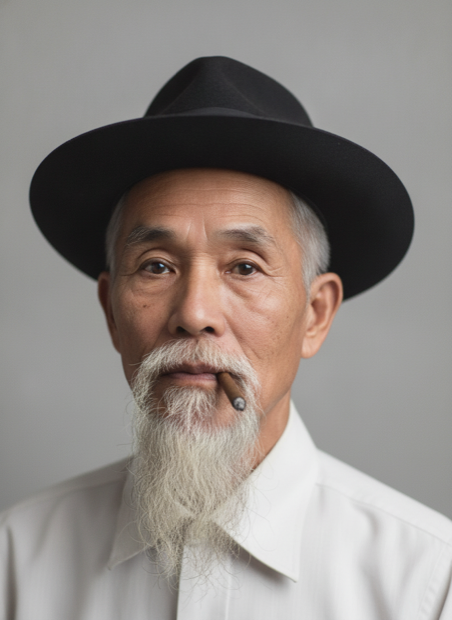
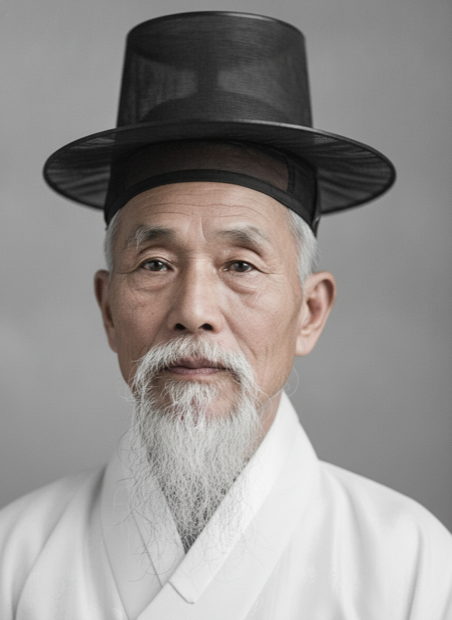
상세 페이지 원본 사진 모음(1차) + 이수정·서경조 재복원 + 앨범 5열
- 갤러리: Commons 카테고리(본인 검증)에서 PD/CC 사진 수집 → 상세 페이지 '원본 사진 모음'
  섹션(설명·출처 링크). 1차 5명 21장. scripts/gallery-fetch.ts.
- 이수정 컬러: 정돈된 -bw를 입력으로 재생성(치우침 해소). srcFor가 -bw 우선.
- 서경조: 담배·현대 의복 환각 제거(프롬프트 강화 '원본에 없는 물건/현대복 금지'+힌트).
- 인명사전 앨범 한 줄 5명.

diff --git a/lib/data/gallery.ts b/lib/data/gallery.ts
@@ -1,0 +1,144 @@
+// 인물별 '원본 사진 모음' — scripts/gallery-fetch.ts 로 Wikimedia Commons 카테고리에서 수집(PD/CC).
+// 카테고리 소속 = 본인 확인. 표시 후 사람이 검수하여 오귀속·중복을 정리한다.
+export type GalleryPhoto = { src: string; caption: string; source: string; sourceUrl?: string };
+
+export const GALLERY: Record<string, GalleryPhoto[]> = {
+  "underwood": [
+    {
+      "src": "https://upload.wikimedia.org/wikipedia/commons/c/c0/Horace_Grant_Underwood.jpg",
+      "caption": "Horace Grant Underwood",
+      "source": "Wikimedia Commons · Public domain",
+      "sourceUrl": "https://commons.wikimedia.org/wiki/File:Horace_Grant_Underwood.jpg"
+    },
+    {
+      "src": "https://upload.wikimedia.org/wikipedia/commons/9/9b/Horace_Grant_Underwood_in_1916.jpg",
+      "caption": "Horace Grant Underwood in 1916",
+      "source": "Wikimedia Commons · Public domain",
+      "sourceUrl": "https://commons.wikimedia.org/wiki/File:Horace_Grant_Underwood_in_1916.jpg"
+    },
+    {
+      "src": "https://upload.wikimedia.org/wikipedia/commons/2/29/Horace_Grant_Underwood_in_Korean_costume.jpg",
+      "caption": "Horace Grant Underwood in Korean costume",
+      "source": "Wikimedia Commons · Public domain",
+      "sourceUrl": "https://commons.wikimedia.org/wiki/File:Horace_Grant_Underwood_in_Korean_costume.jpg"
+    },
+    {
+      "src": "https://upload.wikimedia.org/wikipedia/commons/5/5d/Horace_G._Underwood_with_his_wife.jpg",
+      "caption": "Horace G. Underwood with his wife",
+      "source": "Wikimedia Commons · Public domain",
+      "sourceUrl": "https://commons.wikimedia.org/wiki/File:Horace_G._Underwood_with_his_wife.jpg"
+    },
+    {
+      "src": "https://upload.wikimedia.org/wikipedia/commons/thumb/5/5d/Underwood15.jpg/960px-Underwood15.jpg",
+      "caption": "Horace Grant Underwood at Fifteen",
+      "source": "Wikimedia Commons · Public domain",
+      "sourceUrl": "https://commons.wikimedia.org/wiki/File:Underwood15.jpg"
+    },
+    {
+      "src": "https://upload.wikimedia.org/wikipedia/commons/thumb/b/b3/Underwood24.jpg/960px-Underwood24.jpg",
+      "caption": "Horace Grant Underwood at Twenty-four",
+      "source": "Wikimedia Commons · Public domain",
+      "sourceUrl": "https://commons.wikimedia.org/wiki/File:Underwood24.jpg"
+    },
+    {
+      "src": "https://upload.wikimedia.org/wikipedia/commons/thumb/a/a4/Underwood1884.jpg/960px-Underwood1884.jpg",
+      "caption": "Horace Grant Underwood in 1884",
+      "source": "Wikimedia Commons · Public domain",
+      "sourceUrl": "https://commons.wikimedia.org/wiki/File:Underwood1884.jpg"
+    }
+  ],
+  "allen": [
+    {
+      "src": "https://upload.wikimedia.org/wikipedia/commons/d/d4/Horace_Newton_Allen.jpg",
+      "caption": "Horace Newton Allen",
+      "source": "Wikimedia Commons · Public domain",
+      "sourceUrl": "https://commons.wikimedia.org/wiki/File:Horace_Newton_Allen.jpg"
+    },
+    {
+      "src": "https://upload.wikimedia.org/wikipedia/commons/thumb/6/6a/Korean_ambassadors_and_their_wives_with_Allen_and_his_daughter_%281889%29.jpg/960px-Korean_ambassadors_and_their_wives_with_Allen_and_his_daughter_%281889%29.jpg",
+      "caption": "1889.5.6. 마운트 버넌 방문 당시. (왼쪽부터) 이하영, 이채연의 부인, 이채연, 알렌과 알렌의 딸, 이완용, 이완용의 부인",
+      "source": "Wikimedia Commons · Public domain",
+      "sourceUrl": "https://commons.wikimedia.org/wiki/File:Korean_ambassadors_and_their_wives_with_Allen_and_his_daughter_(1889).jpg"
+    },
+    {
+      "src": "https://upload.wikimedia.org/wikipedia/commons/3/3e/Foreign_ministers_to_the_Korean_Empire%2C_1901.jpg",
+      "caption": "Foreign ministers to the Korean Empire, 1901",
+      "source": "Wikimedia Commons · Public domain",
+      "sourceUrl": "https://commons.wikimedia.org/wiki/File:Foreign_ministers_to_the_Korean_Empire,_1901.jpg"
+    }
+  ],
+  "avison": [
+    {
+      "src": "https://upload.wikimedia.org/wikipedia/commons/b/b6/1904%EB%85%84_%EC%A0%9C%EC%A4%91%EC%9B%90_%EC%97%90%EB%B9%84%EC%8A%A8%EC%9D%98_%EC%99%B8%EA%B3%BC_%EC%8B%9C%EC%88%A0.jpg",
+      "caption": "1904년 세브란스병원에서 병원장인 올리버 R 에비슨의 수술을 보조하는 박서양",
+      "source": "Wikimedia Commons · Public domain",
+      "sourceUrl": "https://commons.wikimedia.org/wiki/File:1904%EB%85%84_%EC%A0%9C%EC%A4%91%EC%9B%90_%EC%97%90%EB%B9%84%EC%8A%A8%EC%9D%98_%EC%99%B8%EA%B3%BC_%EC%8B%9C%EC%88%A0.jpg"
+    },
+    {
+      "src": "https://upload.wikimedia.org/wikipedia/commons/1/1d/1904%EB%85%84_%EC%A0%9C%EC%A4%91%EC%9B%90_%EC%97%90%EB%B9%84%EC%8A%A8%EC%9D%98_%EC%99%B8%EA%B3%BC_%EC%8B%9C%EC%88%A0_2.jpg",
+      "caption": "1904년 세브란스병원에서 병원장인 올리버 R 에비슨의 수술을 보조하는 박서양",
+      "source": "Wikimedia Commons · Public domain",
+      "sourceUrl": "https://commons.wikimedia.org/wiki/File:1904%EB%85%84_%EC%A0%9C%EC%A4%91%EC%9B%90_%EC%97%90%EB%B9%84%EC%8A%A8%EC%9D%98_%EC%99%B8%EA%B3%BC_%EC%8B%9C%EC%88%A0_2.jpg"
+    },
+    {
+      "src": "https://upload.wikimedia.org/wikipedia/commons/5/5b/1904%EB%85%84_%EC%A0%9C%EC%A4%91%EC%9B%90_%EC%97%90%EB%B9%84%EC%8A%A8%EC%9D%98_%EC%99%B8%EA%B3%BC_%EC%8B%9C%EC%88%A0_3.jpg",
+      "caption": "1904년 세브란스병원에서 병원장인 올리버 R 에비슨의 수술을 보조하는 박서양",
+      "source": "Wikimedia Commons · Public domain",
+      "sourceUrl": "https://commons.wikimedia.org/wiki/File:1904%EB%85%84_%EC%A0%9C%EC%A4%91%EC%9B%90_%EC%97%90%EB%B9%84%EC%8A%A8%EC%9D%98_%EC%99%B8%EA%B3%BC_%EC%8B%9C%EC%88%A0_3.jpg"
+    },
+    {
+      "src": "https://upload.wikimedia.org/wikipedia/commons/a/a3/Oliver_R._Avison.jpg",
+      "caption": "Photograph of Oliver R Avison",
+      "source": "Wikimedia Commons · Public domain",
+      "sourceUrl": "https://commons.wikimedia.org/wiki/File:Oliver_R._Avison.jpg"
+    }
+  ],
+  "rosetta": [
+    {
+      "src": "https://upload.wikimedia.org/wikipedia/commons/thumb/f/fb/Christian_herald_and_signs_of_our_times_%281896%29_%2814767669834%29.jpg/960px-Christian_herald_and_signs_of_our_times_%281896%29_%2814767669834%29.jpg",
+      "caption": "Christian herald and signs of our times (1896) (14767669834)",
+      "source": "Wikimedia Commons · No restrictions",
+      "sourceUrl": "https://commons.wikimedia.org/wiki/File:Christian_herald_and_signs_of_our_times_(1896)_(14767669834).jpg"
+    },
+    {
+      "src": "https://upload.wikimedia.org/wikipedia/commons/thumb/f/fe/Dr._Rosetta_Sherwood_Hall_and_children.jpg/960px-Dr._Rosetta_Sherwood_Hall_and_children.jpg",
+      "caption": "Dr. Rosetta Sherwood Hall and her children, Edith and Sherwood",
+      "source": "Wikimedia Commons · Public domain",
+      "sourceUrl": "https://commons.wikimedia.org/wiki/File:Dr._Rosetta_Sherwood_Hall_and_children.jpg"
+    },
+    {
+      "src": "https://upload.wikimedia.org/wikipedia/commons/c/cb/Dr._Rosetta_Sherwood_Hall.jpg",
+      "caption": "Dr. Rosetta Sherwood Hall",
+      "source": "Wikimedia Commons · Public domain",
+      "sourceUrl": "https://commons.wikimedia.org/wiki/File:Dr._Rosetta_Sherwood_Hall.jpg"
+    },
+    {
+      "src": "https://upload.wikimedia.org/wikipedia/commons/6/6b/Dr._Rosetta_S._Hall.jpg",
+      "caption": "Dr. Rosetta Sherwood Hall",
+      "source": "Wikimedia Commons · Public domain",
+      "sourceUrl": "https://commons.wikimedia.org/wiki/File:Dr._Rosetta_S._Hall.jpg"
+    }
+  ],
+  "wjhall": [
+    {
+      "src": "https://upload.wikimedia.org/wikipedia/commons/1/1a/William_James_Hall.jpg",
+      "caption": "William James Hall (January 16, 1860 – November 24, 1894)",
+      "source": "Wikimedia Commons · Public domain",
+      "sourceUrl": "https://commons.wikimedia.org/wiki/File:William_James_Hall.jpg"
+    },
+    {
+      "src": "https://upload.wikimedia.org/wikipedia/commons/c/cb/William_James_Hall_%28cropped%29.jpg",
+      "caption": "William James Hall (January 16, 1860 – November 24, 1894)",
+      "source": "Wikimedia Commons · Public domain",
+      "sourceUrl": "https://commons.wikimedia.org/wiki/File:William_James_Hall_(cropped).jpg"
+    },
+    {
+      "src": "https://upload.wikimedia.org/wikipedia/commons/thumb/6/6e/Scenes_from_the_early_life_of_William_James_Hall.jpg/960px-Scenes_from_the_early_life_of_William_James_Hall.jpg",
+      "caption": "Scenes from the early life of William James Hall",
+      "source": "Wikimedia Commons · Public domain",
+      "sourceUrl": "https://commons.wikimedia.org/wiki/File:Scenes_from_the_early_life_of_William_James_Hall.jpg"
+    }
+  ]
+};
+
+export const galleryFor = (id: string): GalleryPhoto[] => GALLERY[id] ?? [];

diff --git a/scripts/gallery-fetch.ts b/scripts/gallery-fetch.ts
@@ -1,0 +1,75 @@
+// 인물별 Wikimedia Commons 카테고리에서 PD/CC 사진을 모아 lib/data/gallery.ts 를 생성한다.
+// 카테고리 소속 파일 = 그 인물로 분류된 검증본이라 오귀속 위험이 낮다(그래도 결과는 사람이 검수).
+//   tsx scripts/gallery-fetch.ts
+import { writeFile } from "node:fs/promises";
+import path from "node:path";
+
+// id → Commons 카테고리명(정확한 표기). 없는 카테고리는 0장으로 건너뜀.
+const CONFIG: Record<string, string> = {
+  underwood: "Horace Grant Underwood",
+  appenzeller: "Henry Gerhard Appenzeller",
+  allen: "Horace Newton Allen",
+  avison: "Oliver R. Avison",
+  hulbert: "Homer Hulbert",
+  moffett: "Samuel Austin Moffett",
+  gale: "James Scarth Gale",
+  rosetta: "Rosetta Sherwood Hall",
+  heron: "John W. Heron",
+  wjhall: "William James Hall",
+  ross: "John Ross (missionary)",
+  hardie: "Robert A. Hardie",
+};
+
+const strip = (s: string) => s.replace(/<[^>]+>/g, "").replace(/\s+/g, " ").trim();
+const titleCaption = (t: string) => t.replace(/^File:/, "").replace(/\.(jpe?g|png|gif)$/i, "").replace(/[_-]+/g, " ").trim();
+
+type Entry = { src: string; caption: string; source: string; sourceUrl?: string };
+
+async function fetchCategory(cat: string): Promise<Entry[]> {
+  const url = `https://commons.wikimedia.org/w/api.php?action=query&generator=categorymembers&gcmtitle=${encodeURIComponent("Category:" + cat)}&gcmtype=file&gcmlimit=40&prop=imageinfo&iiprop=url%7Cmime%7Cextmetadata&iiurlwidth=640&format=json`;
+  const res = await fetch(url, { headers: { "user-agent": "missionaries-archive/1.0 (educational; contact via site)" } });
+  if (!res.ok) { console.log(`  ✗ HTTP ${res.status}`); return []; }
+  const data = await res.json();
+  const pages = (data?.query?.pages ?? {}) as Record<string, { title: string; imageinfo?: { url: string; thumburl?: string; mime?: string; descriptionurl?: string; extmetadata?: Record<string, { value: string }> }[] }>;
+  const out: Entry[] = [];
+  for (const p of Object.values(pages)) {
+    const ii = p.imageinfo?.[0];
+    if (!ii || !/^image\/(jpeg|png)$/.test(ii.mime ?? "")) continue; // 사진만(PDF·SVG 제외)
+    const em = ii.extmetadata ?? {};
+    const lic = strip(em.LicenseShortName?.value ?? "");
+    const isFree = /public domain|^cc|^pd|no restrictions/i.test(lic) || /PD/i.test(strip(em.UsageTerms?.value ?? ""));
+    if (!isFree) continue; // PD/CC만
+    const descRaw = strip(em.ImageDescription?.value ?? "");
+    const caption = descRaw && descRaw.length <= 110 ? descRaw : titleCaption(p.title);
+    out.push({
+      src: ii.thumburl || ii.url,
+      caption,
+      source: `Wikimedia Commons · ${lic || "PD"}`,
+      sourceUrl: ii.descriptionurl,
+    });
+  }
+  return out;
+}
+
+async function main() {
+  const GALLERY: Record<string, Entry[]> = {};
+  for (const [id, cat] of Object.entries(CONFIG)) {
+    process.stdout.write(`${id} (${cat}) ... `);
+    try {
+      const entries = await fetchCategory(cat);
+      if (entries.length) { GALLERY[id] = entries; console.log(`${entries.length}장`); }
+      else console.log("0장(건너뜀)");
+    } catch (e) { console.log("오류:", String(e).slice(0, 80)); }
+    await new Promise((s) => setTimeout(s, 400));
+  }
+  const body =
+    `// 인물별 '원본 사진 모음' — scripts/gallery-fetch.ts 로 Wikimedia Commons 카테고리에서 수집(PD/CC).\n` +
+    `// 카테고리 소속 = 본인 확인. 표시 후 사람이 검수하여 오귀속·중복을 정리한다.\n` +
+    `export type GalleryPhoto = { src: string; caption: string; source: string; sourceUrl?: string };\n\n` +
+    `export const GALLERY: Record<string, GalleryPhoto[]> = ${JSON.stringify(GALLERY, null, 2)};\n\n` +
+    `export const galleryFor = (id: string): GalleryPhoto[] => GALLERY[id] ?? [];\n`;
+  await writeFile(path.join(process.cwd(), "lib", "data", "gallery.ts"), body);
+  console.log(`\n생성 완료 — 인물 ${Object.keys(GALLERY).length}명, 총 ${Object.values(GALLERY).reduce((a, b) => a + b.length, 0)}장`);
+}
+
+main();

diff --git a/scripts/colorize.ts b/scripts/colorize.ts
@@ -25,6 +25,8 @@ const PROMPT =
   "CRITICAL — it must be unmistakably the SAME person: precisely preserve their identity, facial structure and proportions, apparent age, " +
   "gaze and expression, hairstyle, facial hair, and clothing exactly as in the original. " +
   "Do NOT change who they are, do NOT beautify, slim, youthen or alter their features — only restore and enhance the image quality. " +
+  "Do NOT add anything that is not clearly in the original: no pipe, cigarette, glasses, hat, or any object in the mouth or hands; " +
+  "do NOT modernize the clothing — keep the exact same garments, and if they wear traditional period dress (e.g. Korean hanbok and gat), keep it accurate to the late 19th / early 20th century. " +
   "Output only the restored photograph, framed as a clean head-and-shoulders studio portrait of the single subject.";
 
 // 흑백 정돈본(-bw): 합성/테두리 원본(사진+글귀, 타원, 주변 인물)을 인물만 크롭해
@@ -42,11 +44,18 @@ const BW_PROMPT =
 // 저품질 원본에서 AI가 정체성(특히 성별)을 오인하지 않도록 인물별 보강 힌트.
 const HINTS: Record<string, string> = {
   shepping: " IMPORTANT IDENTITY: the subject is a WOMAN — Elisabeth Shepping (서서평), a female missionary nurse with round eyeglasses and center-parted hair, wearing a dark high-collar dress. She is female; render her as a woman and never as a man.",
+  seogyeongjo: " IMPORTANT: this is an elderly Korean man (서경조) in traditional late-Joseon dress — white hanbok and a black horsehair gat. He has NOTHING in his mouth — do not add a pipe or cigarette. Keep the clothing authentically traditional (not modern).",
 };
 
 const ext = (id: string) => [".jpg", ".jpeg", ".png"].map((e) => path.join(DIR, id + e));
 
-async function srcFor(id: string): Promise<{ file: string; mime: string } | null> {
+async function srcFor(id: string, bwMode = false): Promise<{ file: string; mime: string } | null> {
+  // 컬러 생성 시 정돈된 흑백본(-bw)이 있으면 그것을 입력으로 — 이미 크롭·중앙정렬돼 결과가 안정적.
+  // (단 -bw 생성 모드에서는 원본에서 만들어야 하므로 제외.)
+  if (!bwMode) {
+    const bw = path.join(DIR, `${id}-bw.jpg`);
+    try { await readFile(bw); return { file: bw, mime: "image/jpeg" }; } catch {}
+  }
   for (const f of ext(id)) {
     try {
       await readFile(f);
@@ -59,7 +68,7 @@ async function srcFor(id: string): Promise<{ file: string; mime: string } | null
 async function colorizeOne(id: string, bw = false): Promise<"ok" | "skip" | "fail"> {
   const out = path.join(DIR, `${id}-${bw ? "bw" : "color"}.jpg`);
   try { await readFile(out); return "skip"; } catch {}            // 이미 생성됨 → 건너뜀
-  const src = await srcFor(id);
+  const src = await srcFor(id, bw);
   if (!src) { console.log(`· ${id}: 원본 없음`); return "fail"; }
   const b64 = (await readFile(src.file)).toString("base64");
 

diff --git a/app/people/[id]/page.tsx b/app/people/[id]/page.tsx
@@ -2,6 +2,7 @@ import type { Metadata } from "next";
 import { notFound } from "next/navigation";
 import Link from "next/link";
 import { Portrait } from "@/components/color-mode";
+import { galleryFor } from "@/lib/data/gallery";
 import { CiteBox } from "@/components/cite-box";
 import {
   PEOPLE,
@@ -68,6 +69,7 @@ export default async function PersonPage({
   const ph = PHOTOS[person.id];
   const photo = ph?.photo ?? null;
   const photoSource = ph?.source ?? "";
+  const gallery = galleryFor(person.id);
   const extLinks = [
     ph?.wiki ? { label: "위키백과", href: ph.wiki } : null,
     ph?.wikiEn ? { label: "Wikipedia (EN)", href: ph.wikiEn } : null,
@@ -351,6 +353,30 @@ export default async function PersonPage({
                 </figure>
               );
             })}
+          </div>
+        </section>
+      )}
+
+      {/* 원본 사진 모음 — 공개 자료(주로 Wikimedia Commons)에서 본인 확인된 사진 */}
+      {gallery.length > 0 && (
+        <section className="mt-10">
+          <h2 className="font-display text-lg font-extrabold text-ink-900">원본 사진 모음 <span className="text-[12px] font-semibold text-ink-400">· {gallery.length}점</span></h2>
+          <p className="mt-1 text-[12px] text-ink-400">공개 자료에서 본인으로 확인된 사진을 출처와 함께 모았습니다.</p>
+          <div className="mt-4 grid grid-cols-2 gap-4 sm:grid-cols-3 md:grid-cols-4">
+            {gallery.map((g, i) => (
+              <figure key={i} className="m-0 overflow-hidden rounded-2xl border border-ink-200 bg-white">
+                {/* eslint-disable-next-line @next/next/no-img-element */}
+                <img src={g.src} alt={g.caption} loading="lazy" className="aspect-[3/4] w-full object-cover" style={{ background: "#efe1c3" }} />
+                <figcaption className="p-2.5">
+                  <p className="text-[12px] leading-snug text-ink-700">{g.caption}</p>
+                  {g.sourceUrl ? (
+                    <a href={g.sourceUrl} target="_blank" rel="noreferrer" className="mt-1 block text-[11px] font-bold text-sky-600 hover:text-sky-700">{g.source} ↗</a>
+                  ) : (
+                    <span className="mt-1 block text-[11px] text-ink-400">{g.source}</span>
+                  )}
+                </figcaption>
+              </figure>
+            ))}
           </div>
         </section>
       )}

diff --git a/components/dictionary-roster.tsx b/components/dictionary-roster.tsx
@@ -108,7 +108,7 @@ export function DictionaryRoster({ people }: { people: RosterPerson[] }) {
       {list.length === 0 ? (
         <p className="mt-6 text-[14px] text-ink-500">해당 조건의 인물이 없습니다.</p>
       ) : view === "album" ? (
-        <ul className="mt-5 grid grid-cols-2 gap-4 sm:grid-cols-3 lg:grid-cols-4">
+        <ul className="mt-5 grid grid-cols-2 gap-4 sm:grid-cols-3 md:grid-cols-4 lg:grid-cols-5">
           {list.map((p) => (
             <li key={p.id}>
               <Link href={`/people/${p.id}`} className="group block overflow-hidden rounded-2xl border border-ink-200 bg-white transition-shadow hover:shadow-[var(--shadow-sky)]">
